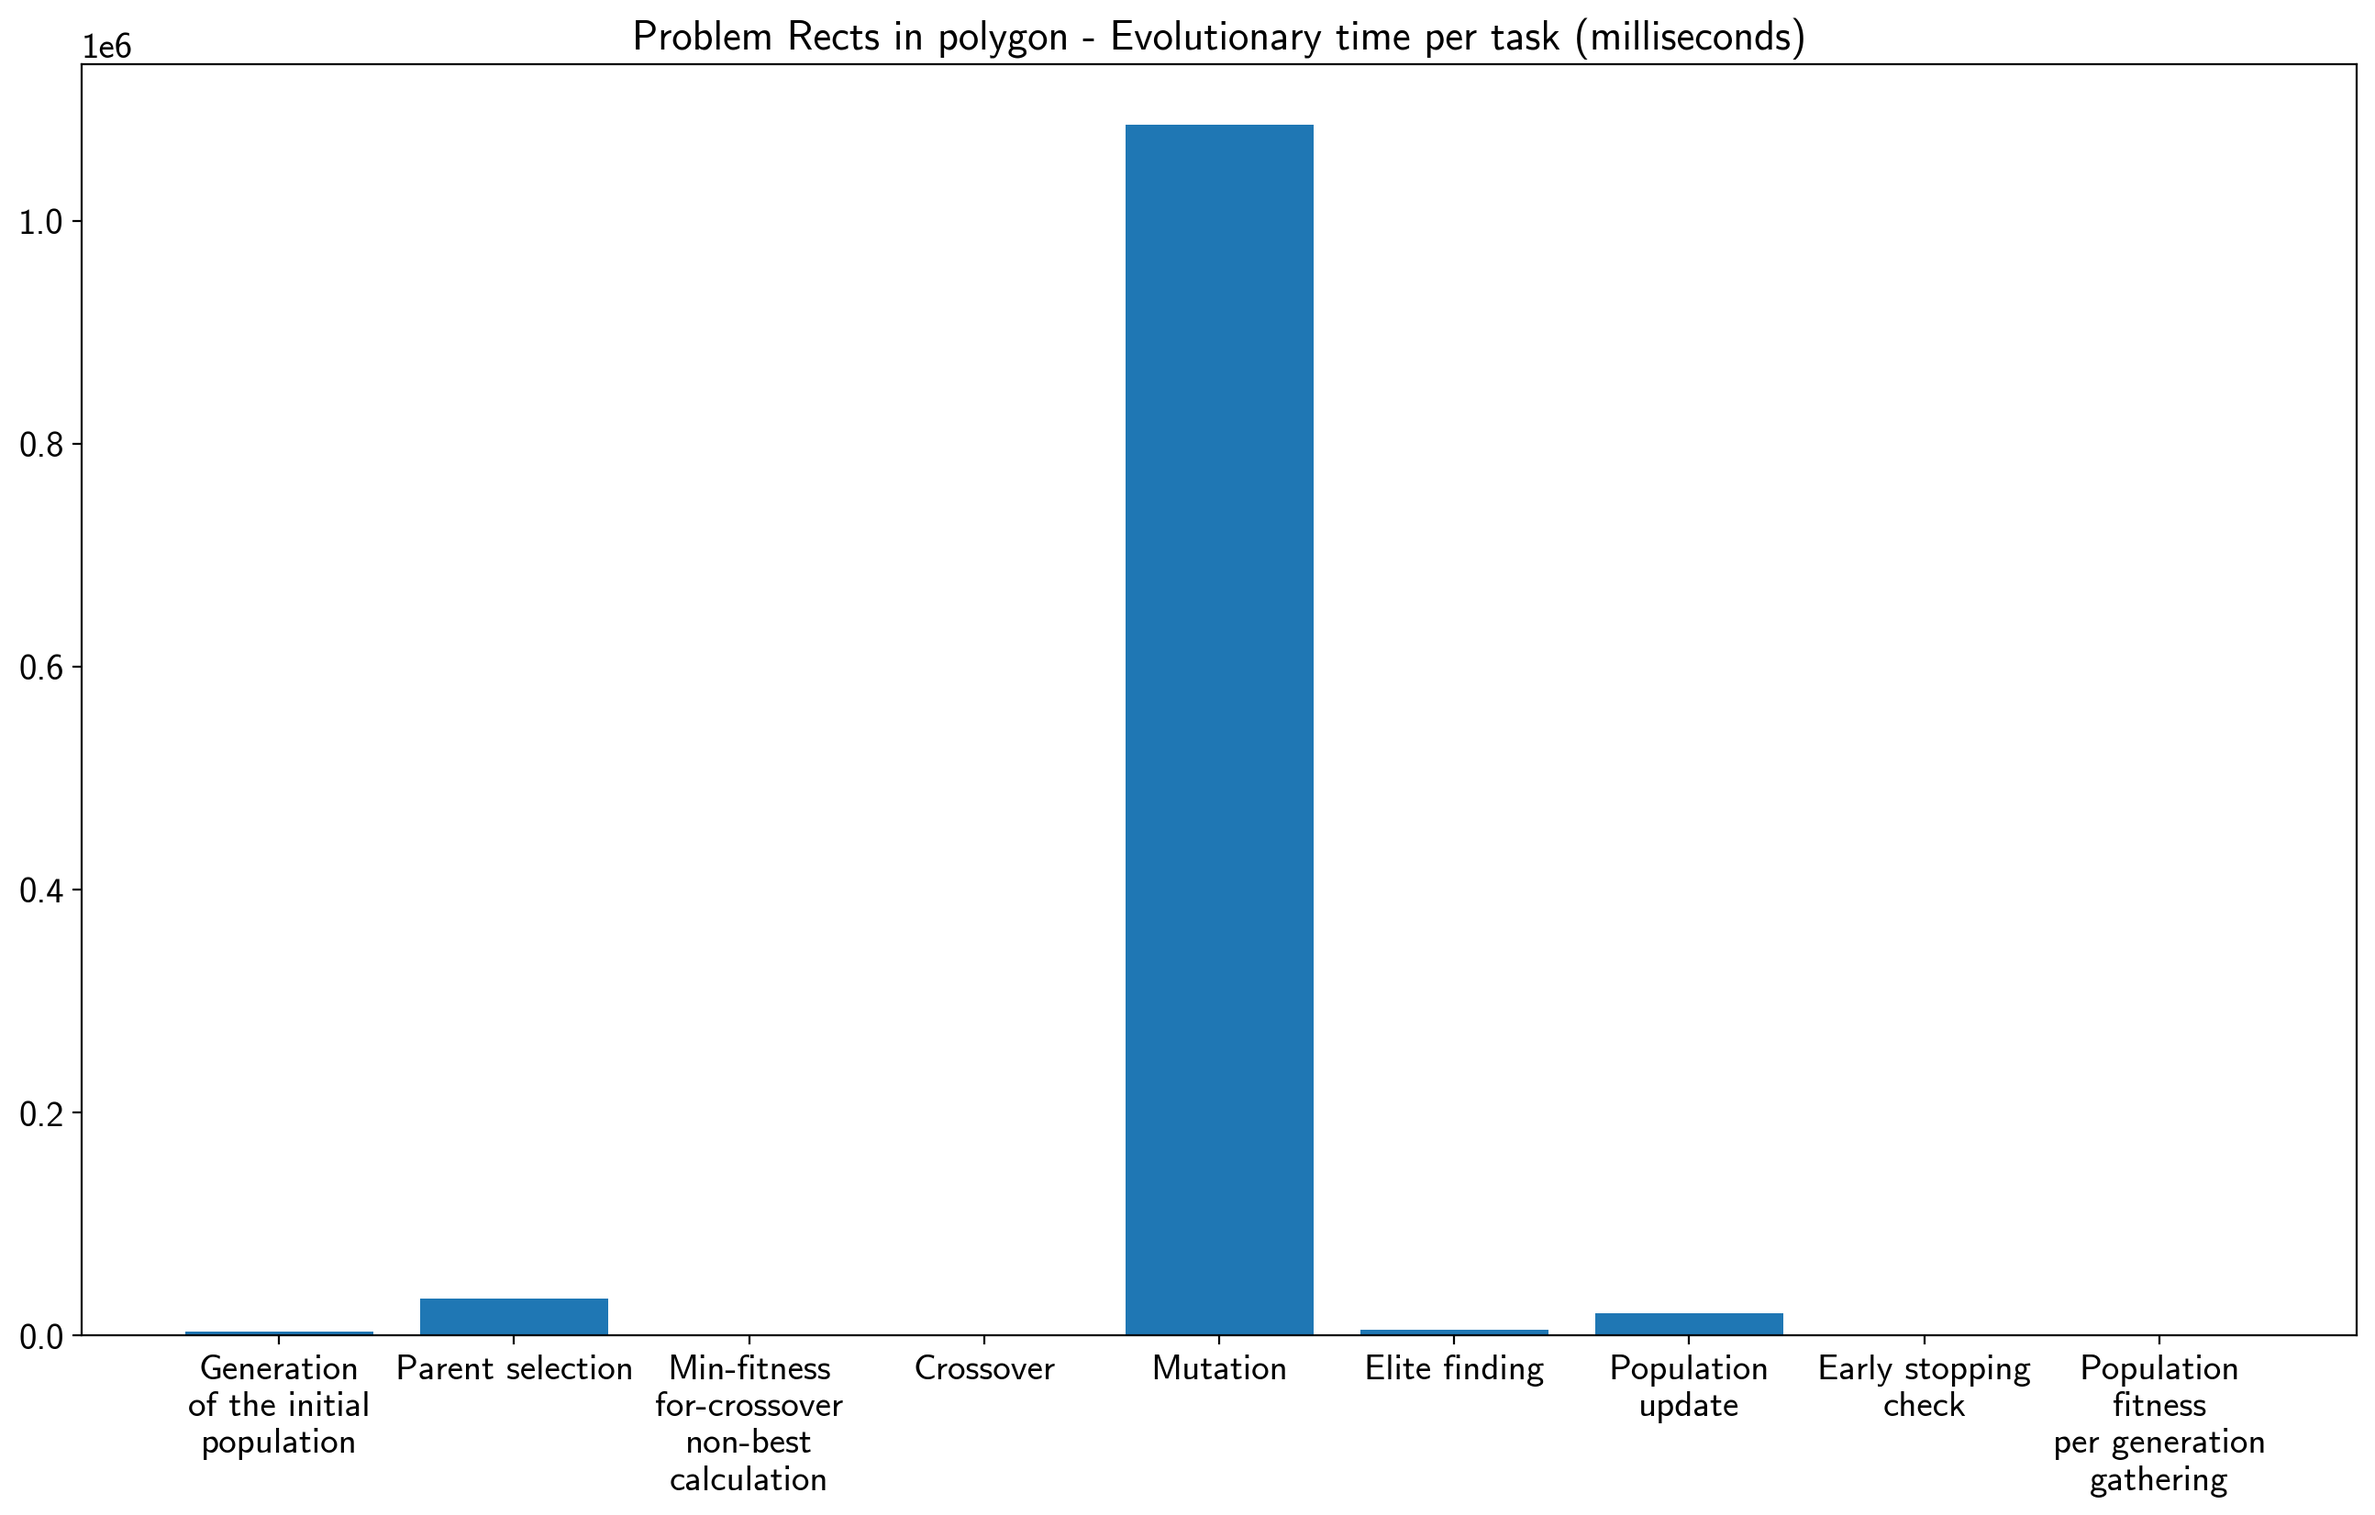
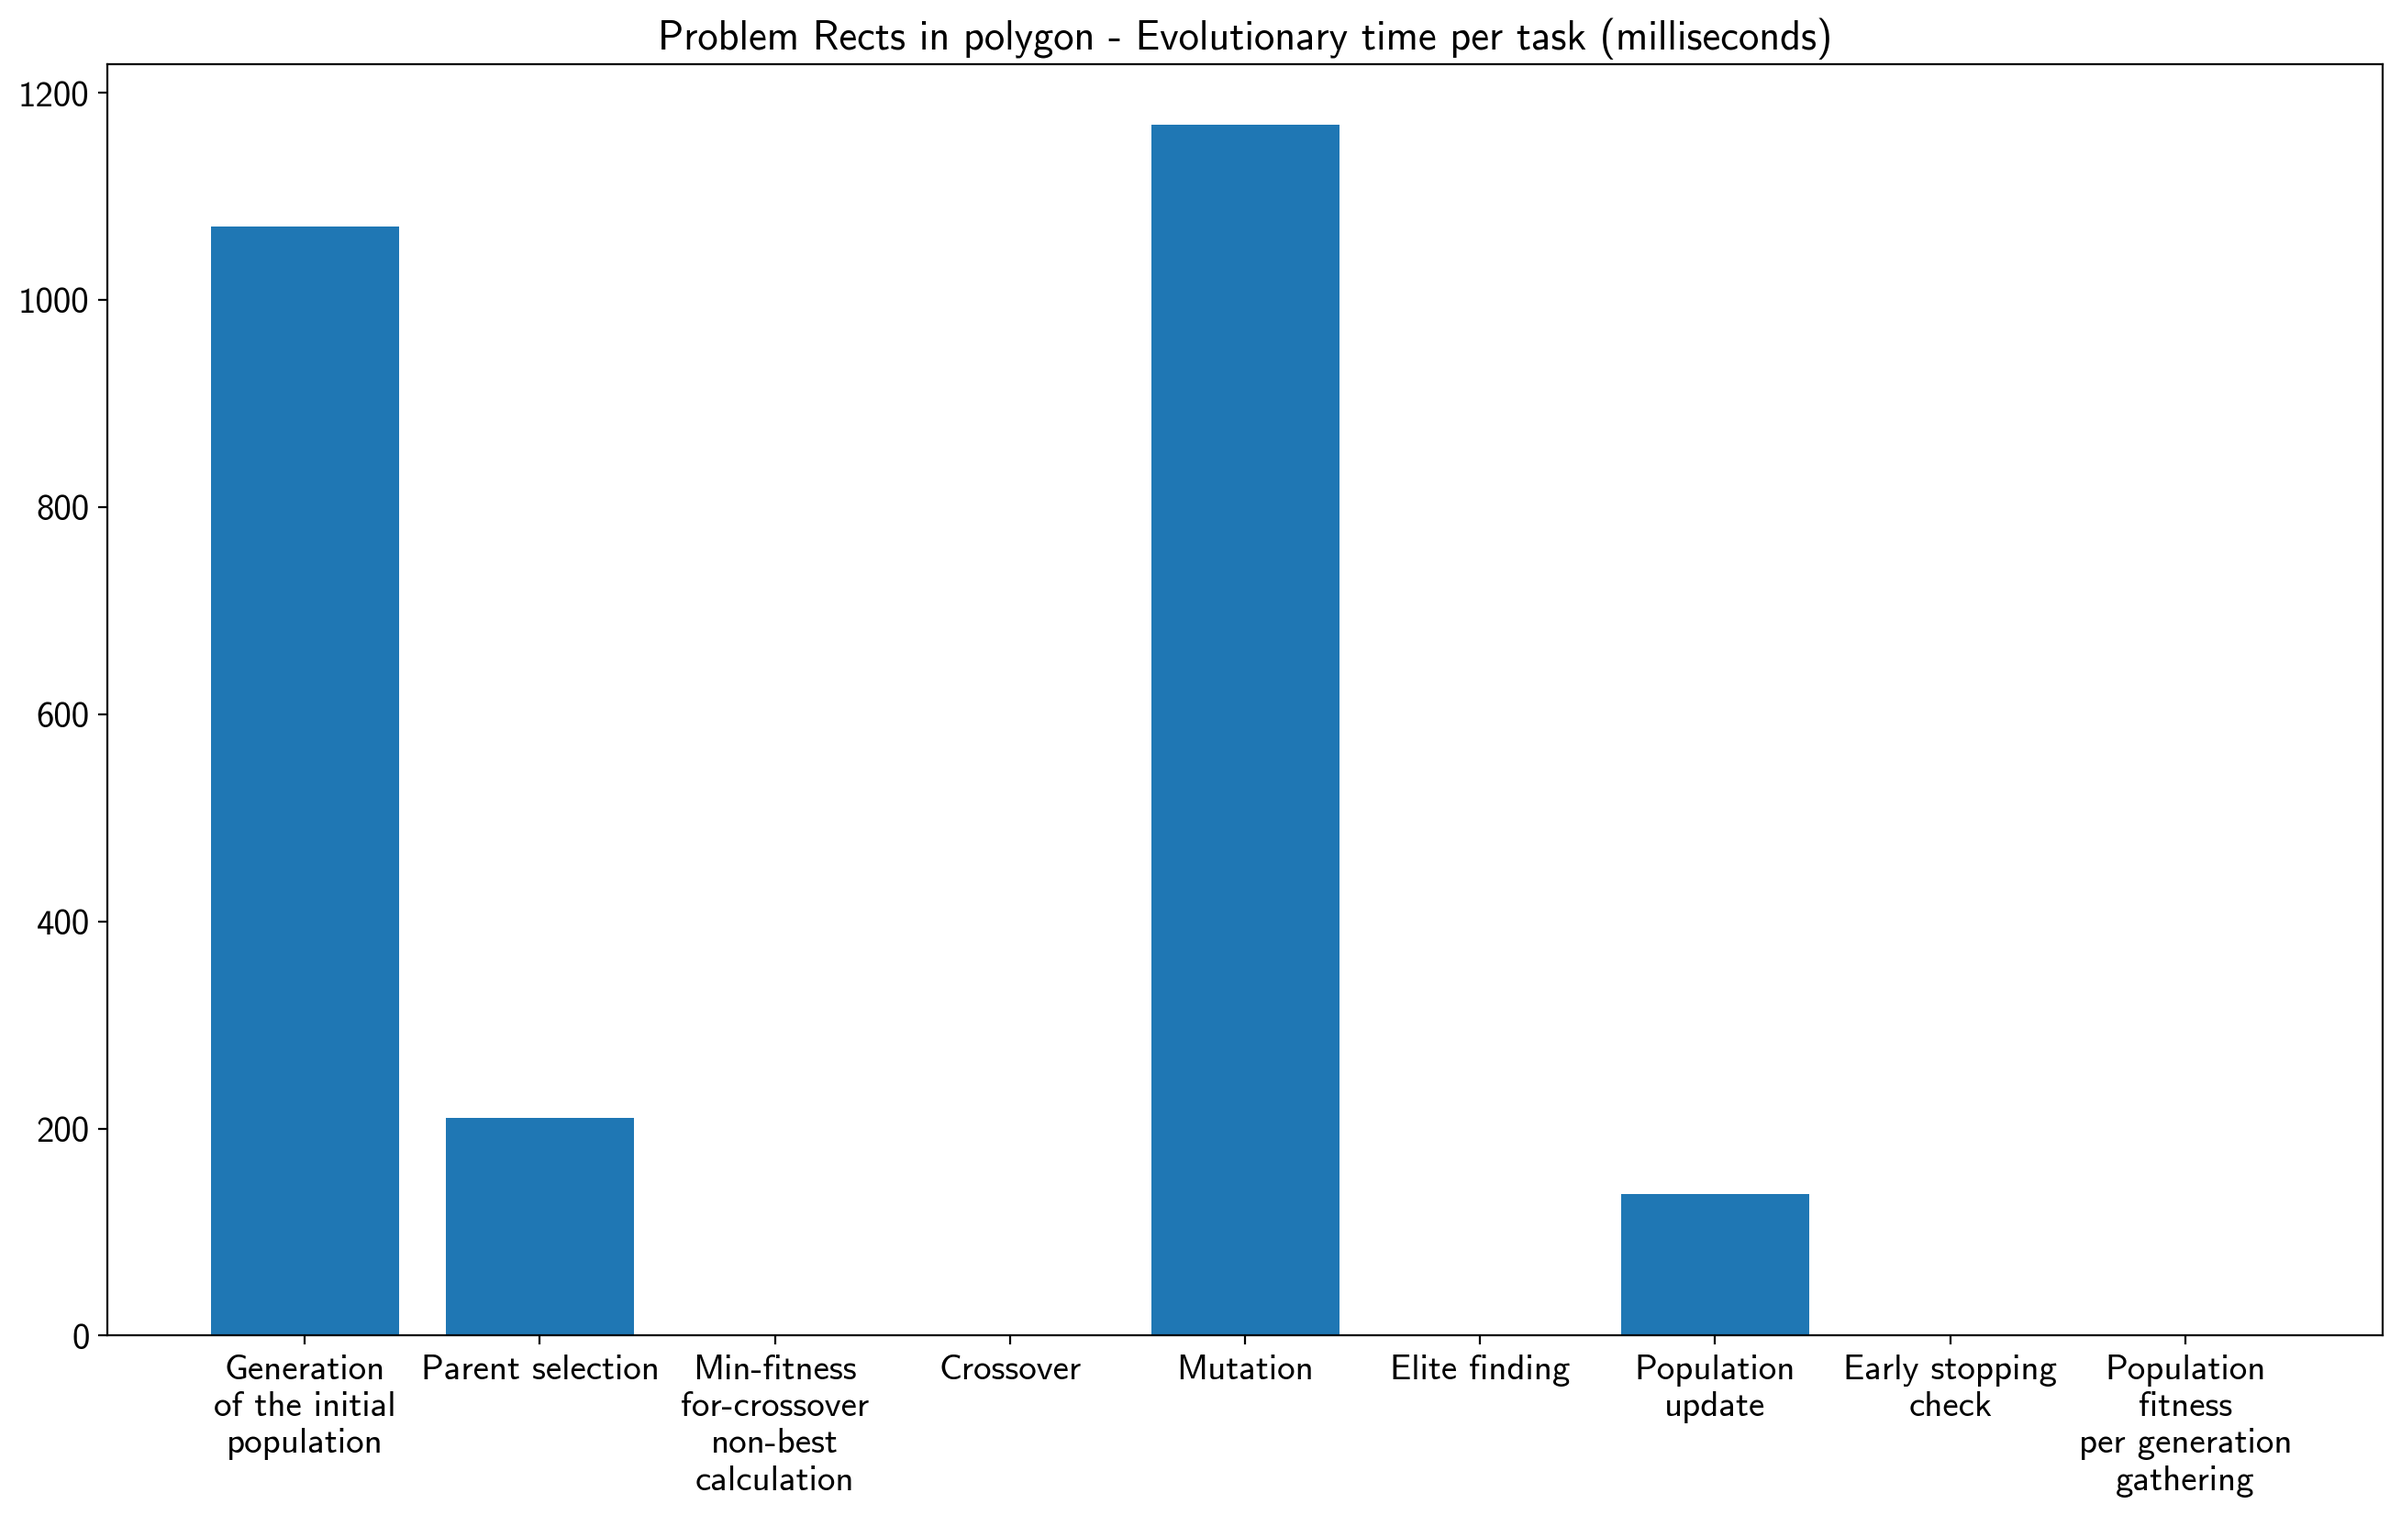
cmt

diff --git a/src/problem_experiments.py b/src/problem_experiments.py
@@ -8,7 +8,6 @@ import pandas as pd
 from shapely.geometry import Polygon, MultiPolygon, Point
 import evolutionary
 import greedy
-import reversible
 import shape_functions
 from circle import Circle
 from common_algorithm_functions import get_time_since, visualize_boxplot_for_data_sequence, print_if_allowed, \
@@ -16,12 +15,9 @@ from common_algorithm_functions import get_time_since, visualize_boxplot_for_dat
 from ellipse import Ellipse
 from problem_solution import Item, Container, Problem, Solution
 
-# types of problems that can be solved: Knapsack-Packing Joint Problem, or Packing Problem
+# Packing Problem
 PACKING_PROBLEM_TYPE = "Packing"
 
-# directory where to save figures and results of the problems created specifically for the Knapsack-Packing Joint Problem
-
-# directory where to save figures and results of instances of the Packing Problem
 PACKING_PROBLEM_DIR = "../out/"
 
 
@@ -36,12 +32,51 @@ def create_packing_problems_with_optimal_solution_values():
 
     container_shape = shape_functions.create_polygon([[3, 3], [7, 20], [28, 25], [23, 10], [17, 2]])
     container = Container(max_weight, container_shape)
-    item_num = 14
+    item_num = 4
     items = [Item(shape_functions.create_rectangle((0, 0), 6, 3), 1., 1.)] * item_num
     problem = Problem(container, items)
     problems.append(problem)
     problem_names.append("Rects in polygon")
     optimal_values.append(item_num)
+
+    # container_shape = shape_functions.create_polygon([[1, 2], [1, 20], [5, 20], [4, 10], [10, 10], [10, 7], [5, 5]])
+    # container = Container(max_weight, container_shape)
+    # item_num = 9
+    # items = [Item(shape_functions.create_rectangle((0, 0), 4, 2), 1., 1.)] * item_num
+    # problem = Problem(container, items)
+    # problems.append(problem)
+    # problem_names.append("Rects in non convex polygon")
+    # optimal_values.append(item_num)
+
+    # container_shape = shape_functions.create_polygon([(1,1), (4,10), (10,10), (14, 5), (18,10),  (24,10), (28,1)])
+    # container = Container(max_weight, container_shape)
+    # item_num = 18
+    # items = [Item(shape_functions.create_rectangle((0, 0), 4, 2), 1., 1.)] * item_num
+    # problem = Problem(container, items)
+    # problems.append(problem)
+    # problem_names.append("Rects in non convex polygon2")
+    # optimal_values.append(item_num)
+
+    # container_shape = shape_functions.create_polygon([(1,1), (4,1), (4,4), (8,4), (8,8), (4,8), (4,12) , (15, 12), (15,1), (20,1) ,(20,20), (1,20)])
+    # container = Container(max_weight, container_shape)
+    # item_num = 23
+    # items = [Item(shape_functions.create_rectangle((0, 0), 4, 2), 1., 1.)] * item_num
+    # problem = Problem(container, items)
+    # problems.append(problem)
+    # problem_names.append("Rects in non convex polygon3")
+    # optimal_values.append(item_num)
+
+    # container_shape = MultiPolygon([(((0, 0), (0.5, 3), (0, 5), (5, 4.5), (5, 0)),
+    #                                  [((0.1, 0.1), (0.1, 0.2), (0.2, 0.2), (0.2, 0.1)),
+    #                                   ((0.3, 0.3), (0.3, 1.2), (1.6, 2.9), (0.75, 0.4)),
+    #                                   ((3.1, 1.5), (3.5, 4.5), (4.9, 4.4), (4.8, 1.2))])])
+    # container = Container(max_weight, container_shape)
+    # item_num = 20
+    # items = [Item(shape_functions.create_rectangle((0, 0), 1, 0.5), 1., 1.)] * item_num
+    # problem = Problem(container, items)
+    # problems.append(problem)
+    # problem_names.append("Rects in multipolygon")
+    # optimal_values.append(item_num)
 
     return problems, problem_names, optimal_values
 
@@ -152,8 +187,8 @@ def perform_experiments(problem_type, output_dir, load_experiments):
         if problems and problem_names and manual_solutions:
 
             # parameters for the experimentation; note: calculating internal times and value evolution can increase the overall time of algorithms (in a slight, almost neglectible way)
-            execution_num = 5  # 1
-            process_num = 5 # 1
+            execution_num = 2  # 1
+            process_num = 2   # 1
             calculate_internal_times = True
             calculate_value_evolution = True
 
@@ -161,8 +196,7 @@ def perform_experiments(problem_type, output_dir, load_experiments):
 
             # solve each problem with each algorithm
             for i, (problem, problem_name, solution) in enumerate(zip(problems, problem_names, manual_solutions)):
-                if i == 1:
-                    break
+
 
                 experiment_dict[problem_name] = {"problem": problem, "manual_solution": solution, "algorithms": dict()}
 
@@ -331,11 +365,6 @@ def visualize_and_save_experiments(experiment_dict, output_dir, can_plots_show_v
 
 
 def main():
-
-    """Main function"""
-
-    # set the type of problem to solve and the output directory
-    # problem_type, output_dir = KNAPSACK_PACKING_PROBLEM_TYPE, KNAPSACK_PACKING_PROBLEM_DIR
     problem_type, output_dir = PACKING_PROBLEM_TYPE, PACKING_PROBLEM_DIR
 
     # whether it should be attempted to load existing experiments, and avoid running new ones
@@ -343,7 +372,6 @@ def main():
 
     # perform (or just load and show) a set of experiments
     perform_experiments(problem_type, output_dir, load_experiments)
-
 
 
 if __name__ == "__main__":

diff --git a/src/evolutionary.py b/src/evolutionary.py
@@ -47,10 +47,10 @@ MUTATION_REMOVE_WEIGHT = 0.2
 MUTATION_MODIFY_WEIGHT = 0.3
 
 # maximum number of times that the addition of a specific item in a mutation step should be attempted
-MUTATION_ADD_MAX_ATTEMPT_NUM = 50
+MUTATION_ADD_MAX_ATTEMPT_NUM = 30
 
 # maximum number of times that the modification of a specific item's placement in a mutation step should be attempted
-MUTATION_MODIFY_MAX_ATTEMPT_NUM = 10
+MUTATION_MODIFY_MAX_ATTEMPT_NUM = 30
 
 # maximum proportion of the container's side length (for each axis) that can be applied as a position offset in a mutation step of placement modification of the type small position change
 MUTATION_MODIFY_SMALL_POSITION_CHANGE_PROPORTION = 0.2
@@ -98,10 +98,10 @@ CROSSOVER_MIN_FITNESS_FOR_NON_BEST_PROPORTION = 0.95
 CROSSOVER_SHAPE_MIN_AREA_PROPORTION = 0.1
 
 # maximum number of generations
-MAX_GENERATION_NUM = 100
+MAX_GENERATION_NUM = 1
 
 # maximum number of generations to assume that algorithm has converged
-CONVERGE_GENERATION_NUM = 12
+CONVERGE_GENERATION_NUM = 15
 
 # maximum proportion of iterations of the generation of an initial solution in which to specialize in trying to place a specific item
 INITIAL_SOLUTION_GENERATION_FIRST_ITEM_SPECIALIZATION_ITER_PROPORTION = 0.5
@@ -189,9 +189,12 @@ def get_fittest_solution(solutions):
 
         return min_area_solutions[0]
 
+
     min_placing_density_solutions = list()
     min_placing_density = np.inf
     for solution in min_area_solutions:
+        if not solution.placed_items:
+            break
         placing_density = solution.get_placing_density()
 
         if placing_density < min_placing_density:
@@ -982,7 +985,7 @@ def solve_problem(problem, population_size=POPULATION_SIZE, initial_generation_i
 
         # check if fitness has improved in this generation, to discard or contribute to confirm the assumption of convergence
         elite_fitness = get_fitness(elite[0]) if elite else -np.inf
-        if elite_fitness > max_fitness:
+        if elite_fitness - max_fitness > 0.05:
             max_fitness = elite_fitness
             iter_count_without_improvement = 0
         else:
@@ -1022,6 +1025,7 @@ def solve_problem(problem, population_size=POPULATION_SIZE, initial_generation_i
             fitness_per_generation_time += get_time_since(start_time)
 
     # encapsulate all times informatively in a dictionary
+    print("BEST FITNESS: ", get_fitness(best_solution))
     if calculate_times:
         approx_total_time = initial_population_time + parent_selection_time + min_fitness_for_crossover_non_best_time + crossover_time + mutation_time + elite_finding_time + population_update_time + early_stop_time + fitness_per_generation_time
         time_dict = {"Generation of the initial population": (initial_population_time, initial_population_time / approx_total_time), "Parent selection": (parent_selection_time, parent_selection_time / approx_total_time), "Min-fitness-for-crossover-non-best calculation": (min_fitness_for_crossover_non_best_time, min_fitness_for_crossover_non_best_time / approx_total_time), "Crossover": (crossover_time, crossover_time / approx_total_time), "Mutation": (mutation_time, mutation_time / approx_total_time), "Elite finding": (elite_finding_time, elite_finding_time / approx_total_time), "Population update": (population_update_time, population_update_time / approx_total_time), "Early stopping check": (early_stop_time, early_stop_time / approx_total_time), "Population fitness per generation gathering": (fitness_per_generation_time, fitness_per_generation_time / approx_total_time)}

diff --git a/src/problem_solution.py b/src/problem_solution.py
@@ -7,6 +7,17 @@ from shapely.geometry import LineString
 from shape_functions import *
 
 
+def get_fitness(solution):
+    if not solution:
+
+        return 0
+
+    if solution.packing_density == 0:
+        return solution.value
+
+    # the fitness of a valid solution coincides with its value
+    return solution.value + 1 / solution.packing_density
+
 # set plotting font and sizes
 plt.rcParams["font.family"] = "serif"
 plt.rcParams["font.serif"] = "cmss10"
@@ -237,11 +248,12 @@ class Solution(object):
         for i, main_shape in self.placed_items.items():
             min_x, min_y, max_x, max_y = get_bounds(main_shape.shape)
             width = max_x - min_x
-            height = max_y - min_y
             center = get_bounding_rectangle_center(main_shape.shape)
             radius_of_searching = width
             nearest_center_found = False
-            while not nearest_center_found and radius_of_searching < width + 10:
+            min_x, min_y, max_x, max_y = get_bounds(self.problem.container.shape)
+            measure = max(max_x - min_x, max_y - min_y)
+            while not nearest_center_found and radius_of_searching < measure:
                 for j, pc in self.placed_items.items():
                     if j != i:
                         pc_center = get_bounding_rectangle_center(pc.shape)
@@ -250,6 +262,8 @@ class Solution(object):
                             res_sum += Point(center).distance(Point(pc_center))
                             break
                 radius_of_searching += 1
+
+
         return res_sum.real / len(self.placed_items)
 
 
@@ -796,7 +810,8 @@ class Solution(object):
             value_weight_string = "V={}".format(self.value if can_consider_weight else int(self.value))
             if can_consider_weight:
                 value_weight_string += ", W={}, Wmax={}".format(self.weight, self.problem.container.max_weight)
-            ax1.set_title("Items inside the container\n({})".format(value_weight_string), fontsize=13)
+            ax1.set_title("Items inside the container\n({}), Fitness: \n({})".format(value_weight_string, get_fitness(self)), fontsize=13)
+
 
         # determine the range of item profitability ratio, for later coloring of items
         min_profit_ratio = np.inf

diff --git a/src/common_algorithm_functions.py b/src/common_algorithm_functions.py
@@ -98,6 +98,9 @@ def visualize_boxplot_for_data_sequence(data_lists, title, labels=None, y_scale_
     legend_lines = [Line2D([0], [0], color="orange", lw=1, ls="-"), Line2D([0], [0], color="g", lw=1, ls="--")]
     ax.legend(legend_lines, ["median", "mean"], loc="upper left", fontsize="large", framealpha=0.6)
 
+
+    plt.xticks(np.arange(0, len(data_lists[0]), 10.0))
+
     if y_scale_override:
         ax.set_yscale(y_scale_override)
         ax.get_yaxis().get_major_formatter().labelOnlyBase = False
